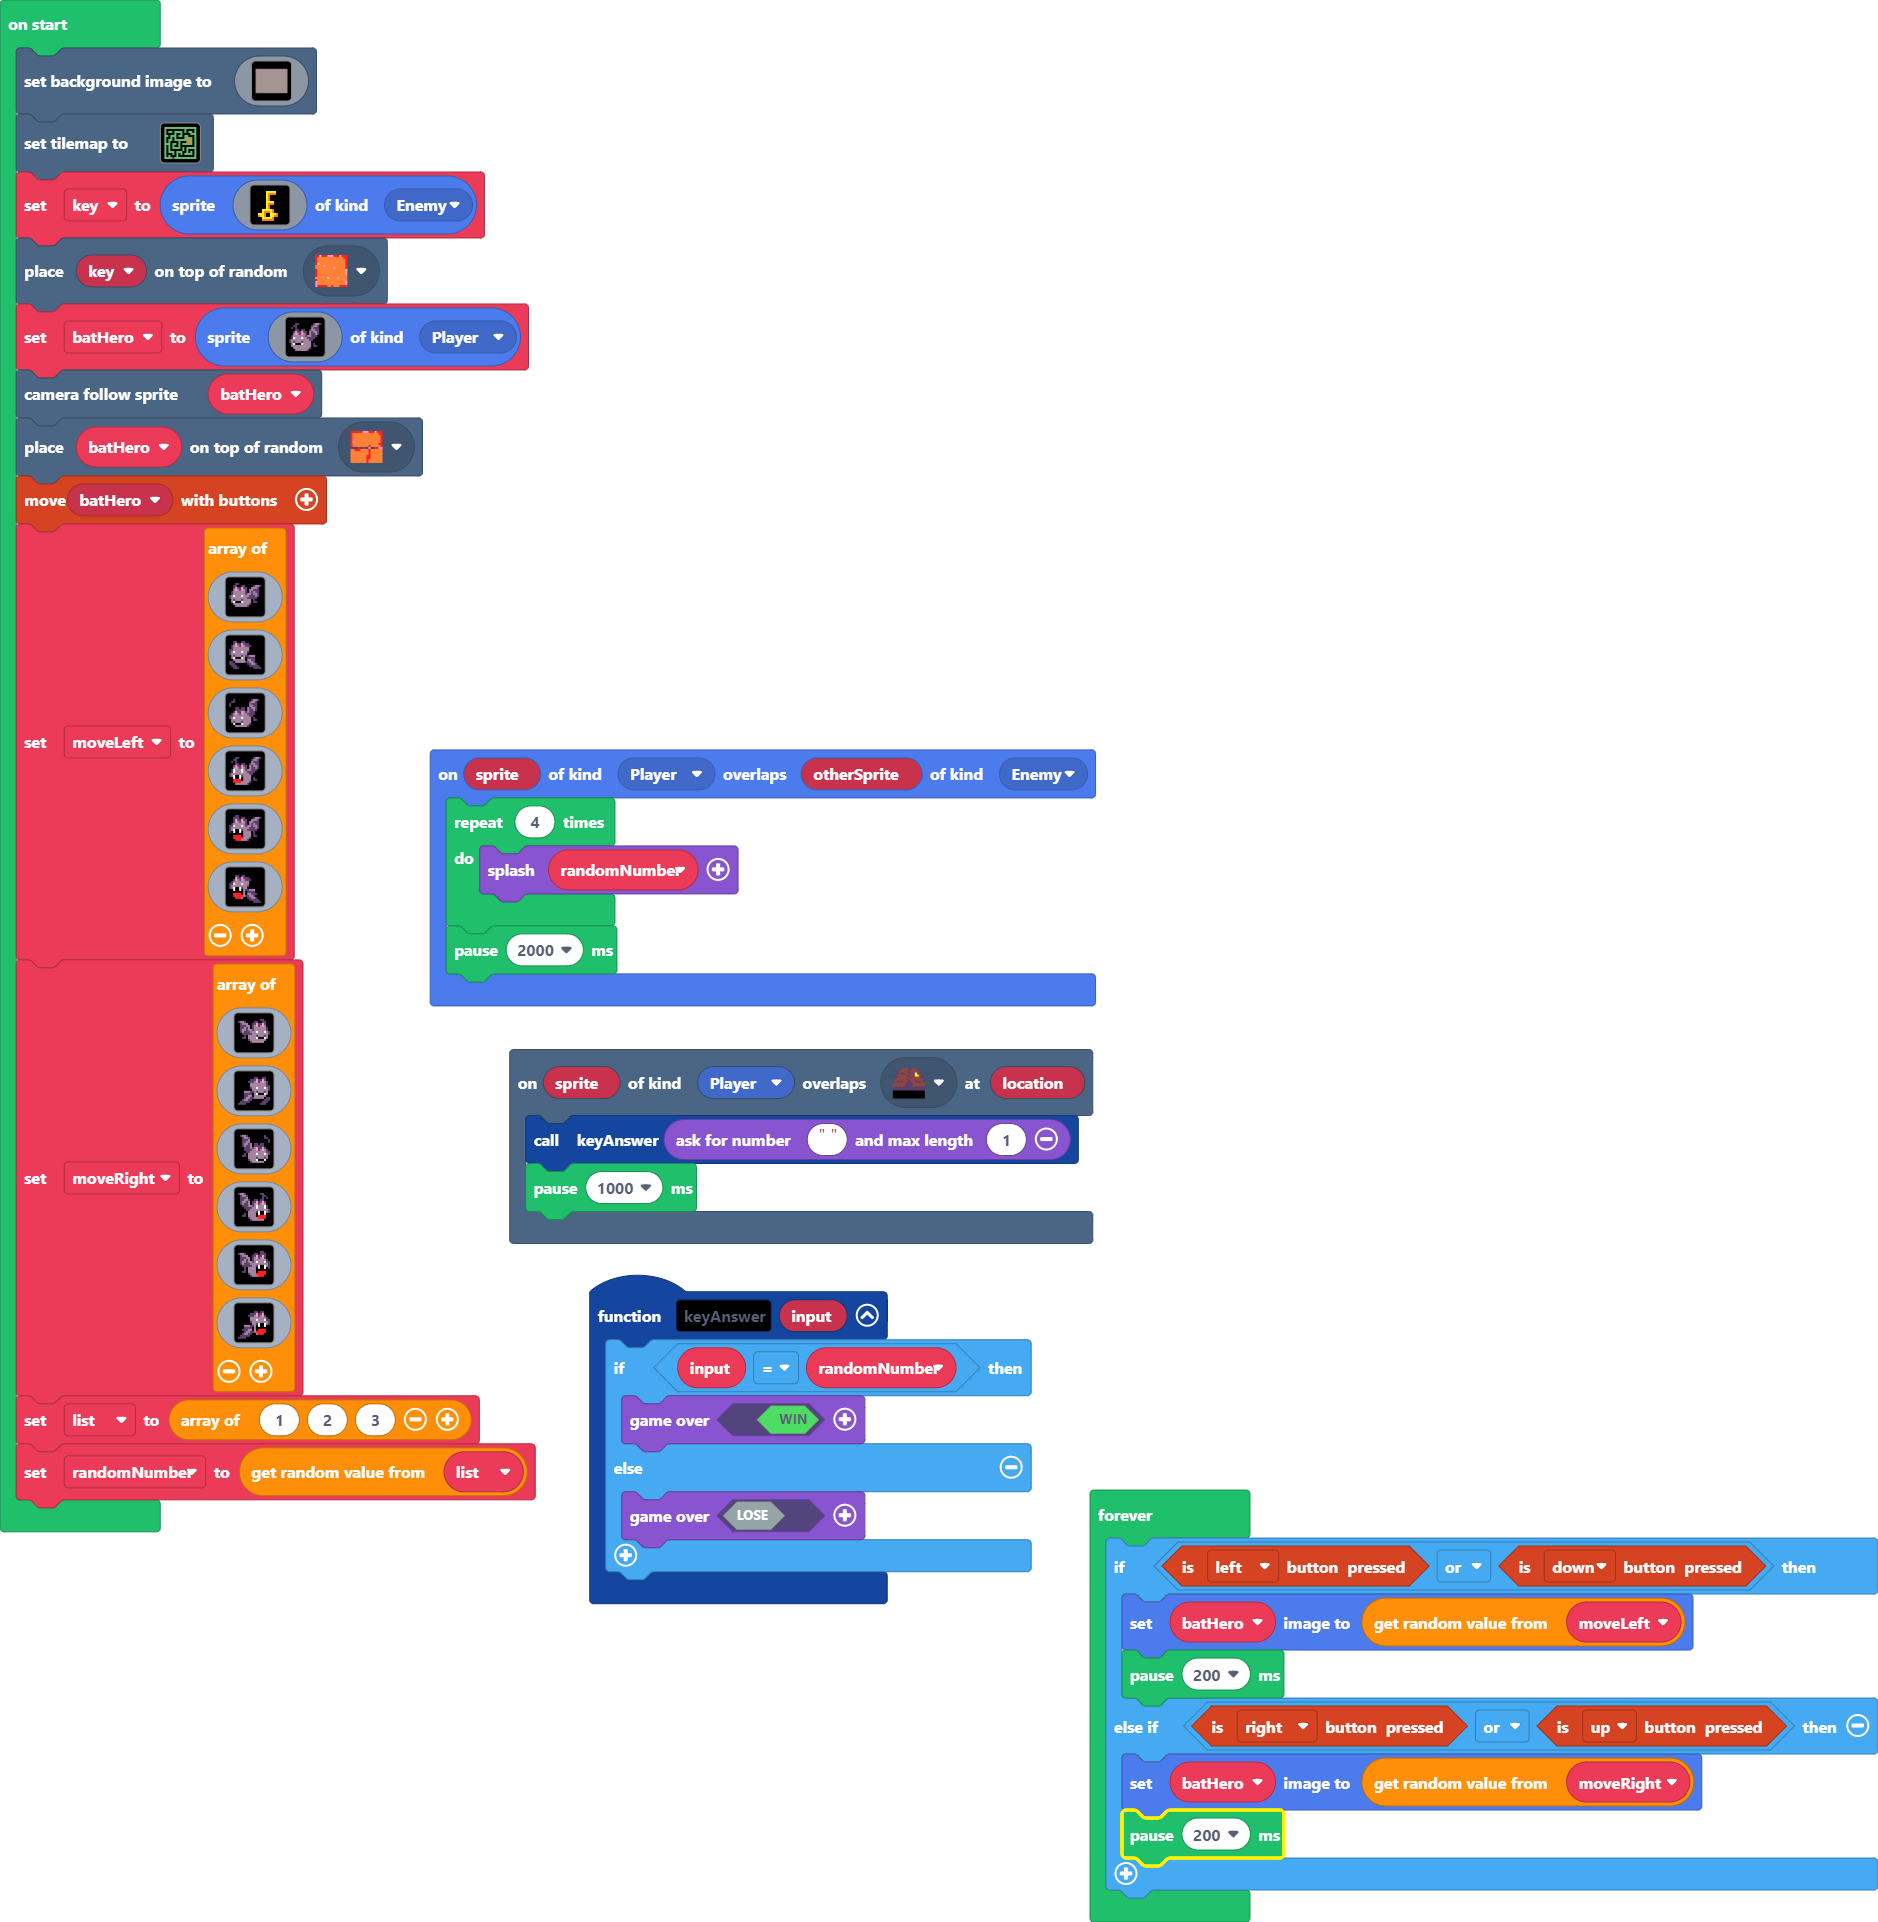
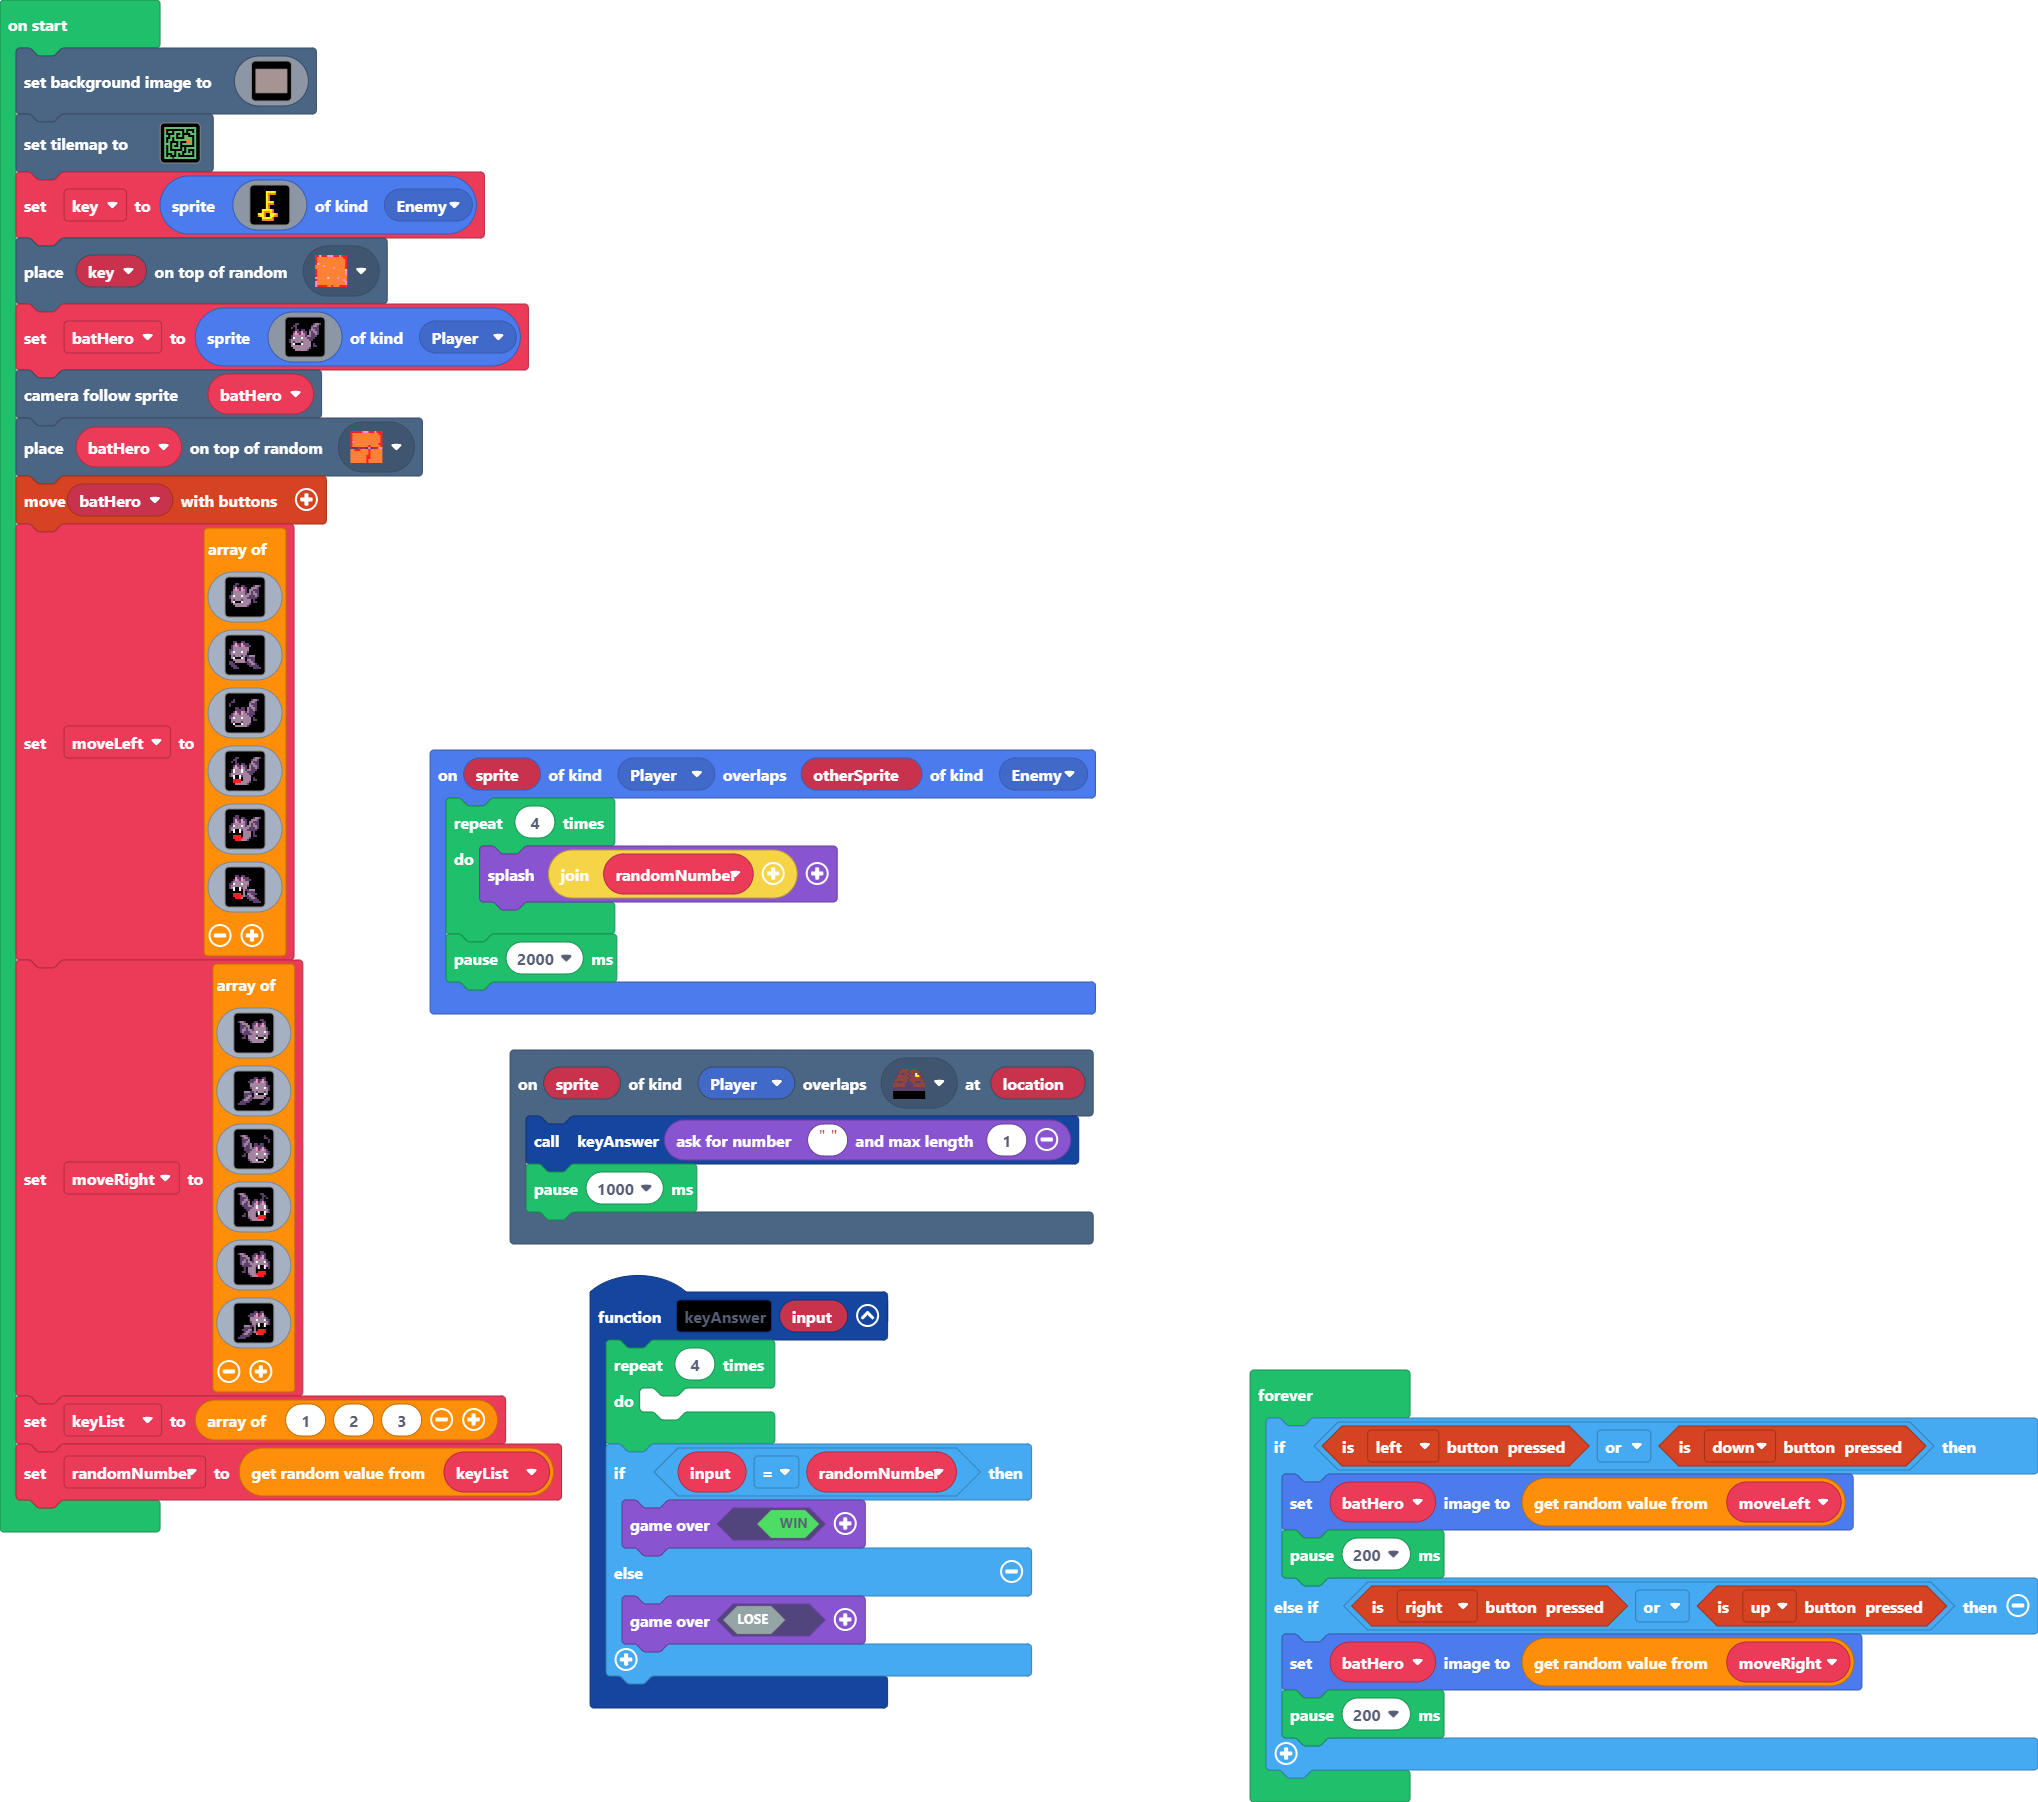
Update main.blocks, main.ts, tilemap.g.jres, tilemap.g.ts

Changed region(s): [[0.0, 0.0, 1.0, 1.0]]

diff --git a/tilemap.g.ts b/tilemap.g.ts
@@ -154,6 +154,44 @@ namespace myTiles {
 2 . 2 . . . 2 . . . . . . . . 2 
 2 2 2 2 . 2 2 2 2 2 2 2 2 2 2 2 
 `, [myTiles.transparency16,myTiles.tile2,myTiles.tile3,myTiles.tile4,myTiles.tile6,myTiles.tile1,myTiles.tile5,myTiles.tile8,myTiles.tile9], TileScale.Sixteen);
+            case "level8":
+            case "level8":return tiles.createTilemap(hex`1000100000000000000000000000000000000000000000000000000000000000000000000000000000000000000000000000000000000000000000000000000000000000000000000000000000000000000000000000000000000000000000000000000000000000000000000000000000000000000000000000000000000000000000000000000000000000000000000000000000000000000000000000000000000000000000000000000000000000000000000000000000000000000000000000000000000000000000000000000000000000000000000000000000000000000000000000000000000000000000000000000000000000000000000000000000000000`, img`
+. . . . . . . . . . . . . . . . 
+. . . . . . . . . . . . . . . . 
+. . . . . . . . . . . . . . . . 
+. . . . . . . . . . . . . . . . 
+. . . . . . . . . . . . . . . . 
+. . . . . . . . . . . . . . . . 
+. . . . . . . . . . . . . . . . 
+. . . . . . . . . . . . . . . . 
+. . . . . . . . . . . . . . . . 
+. . . . . . . . . . . . . . . . 
+. . . . . . . . . . . . . . . . 
+. . . . . . . . . . . . . . . . 
+. . . . . . . . . . . . . . . . 
+. . . . . . . . . . . . . . . . 
+. . . . . . . . . . . . . . . . 
+. . . . . . . . . . . . . . . . 
+`, [myTiles.transparency16], TileScale.Sixteen);
+            case "level9":
+            case "level9":return tiles.createTilemap(hex`1000100000000000000000000000000000000000000000000000000000000000000000000000000000000000000000000000000000000000000000000000000000000000000000000000000000000000000000000000000000000000000000000000000000000000000000000000000000000000000000000000000000000000000000000000000000000000000000000000000000000000000000000000000000000000000000000000000000000000000000000000000000000000000000000000000000000000000000000000000000000000000000000000000000000000000000000000000000000000000000000000000000000000000000000000000000000000`, img`
+. . . . . . . . . . . . . . . . 
+. . . . . . . . . . . . . . . . 
+. . . . . . . . . . . . . . . . 
+. . . . . . . . . . . . . . . . 
+. . . . . . . . . . . . . . . . 
+. . . . . . . . . . . . . . . . 
+. . . . . . . . . . . . . . . . 
+. . . . . . . . . . . . . . . . 
+. . . . . . . . . . . . . . . . 
+. . . . . . . . . . . . . . . . 
+. . . . . . . . . . . . . . . . 
+. . . . . . . . . . . . . . . . 
+. . . . . . . . . . . . . . . . 
+. . . . . . . . . . . . . . . . 
+. . . . . . . . . . . . . . . . 
+. . . . . . . . . . . . . . . . 
+`, [myTiles.transparency16], TileScale.Sixteen);
         }
         return null;
     })

diff --git a/main.ts b/main.ts
@@ -1,4 +1,7 @@
 function keyAnswer (input2: number) {
+    for (let index = 0; index < 4; index++) {
+    	
+    }
     if (input2 == randomNumber) {
         game.over(true)
     } else {
@@ -11,7 +14,7 @@ scene.onOverlapTile(SpriteKind.Player, assets.tile`myTile7`, function (sprite, l
 })
 sprites.onOverlap(SpriteKind.Player, SpriteKind.Enemy, function (sprite, otherSprite) {
     for (let index = 0; index < 4; index++) {
-        game.splash(randomNumber)
+        game.splash("" + randomNumber)
     }
     pause(2000)
 })
@@ -399,8 +402,8 @@ img`
     c c c c . . . . . . . . . . . . 
     `
 ]
-let list = [1, 2, 3]
-randomNumber = list._pickRandom()
+let keyList = [1, 2, 3]
+randomNumber = keyList._pickRandom()
 forever(function () {
     if (controller.left.isPressed() || controller.down.isPressed()) {
         batHero.setImage(moveLeft._pickRandom())
